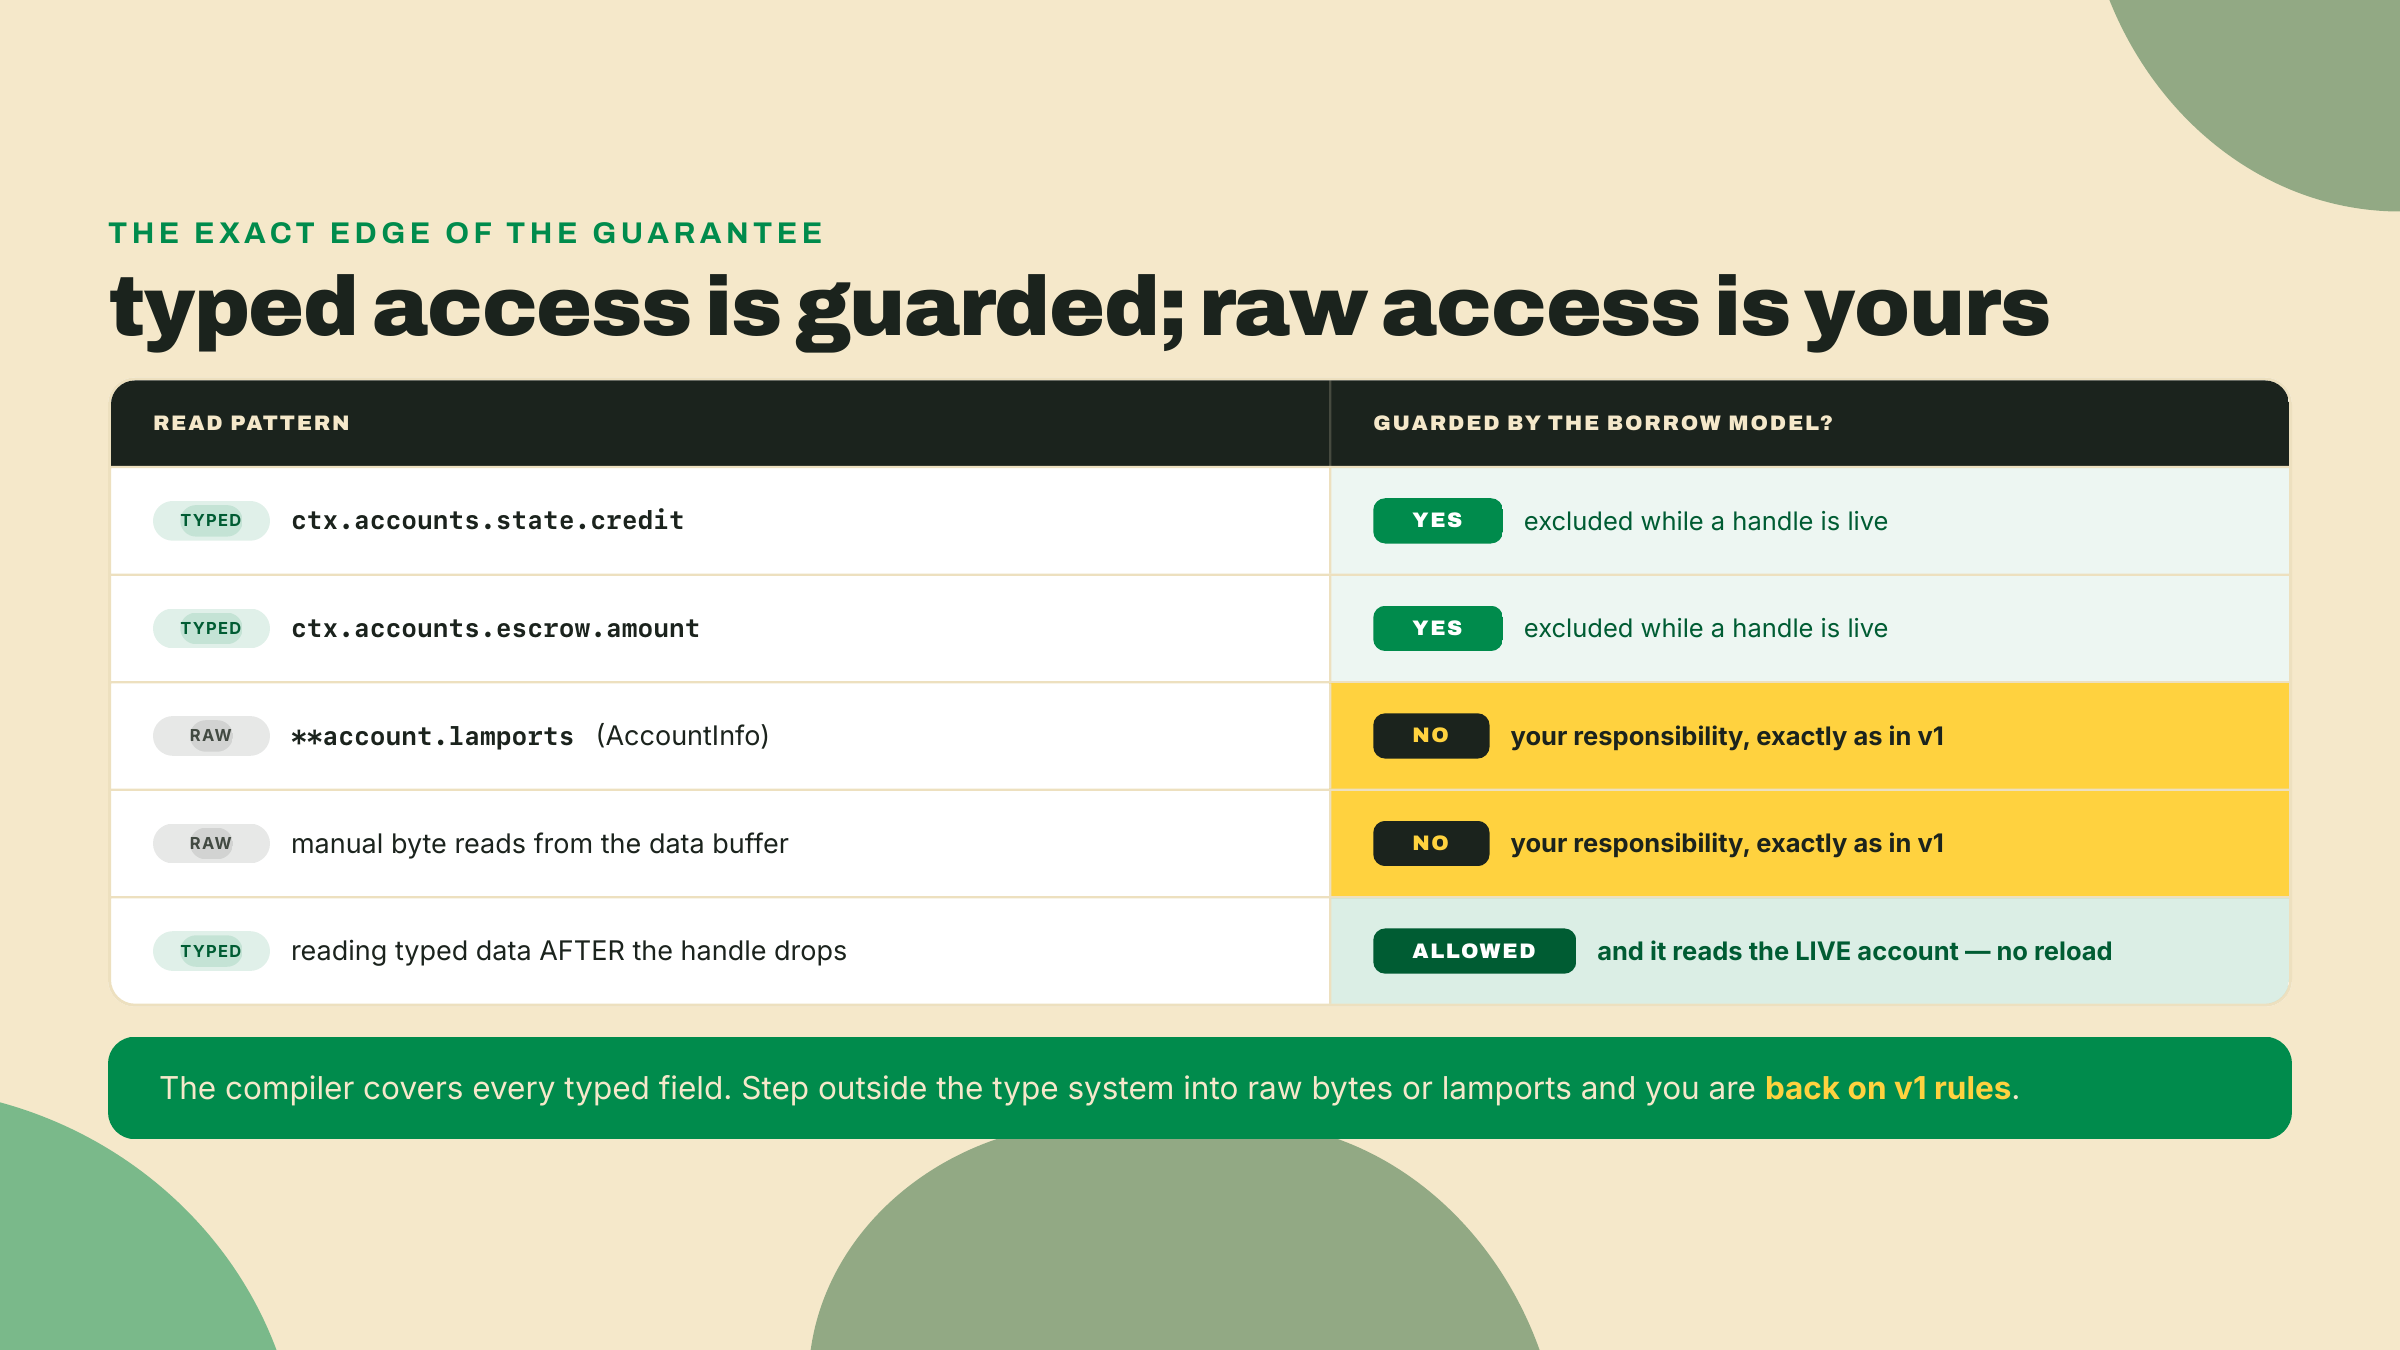
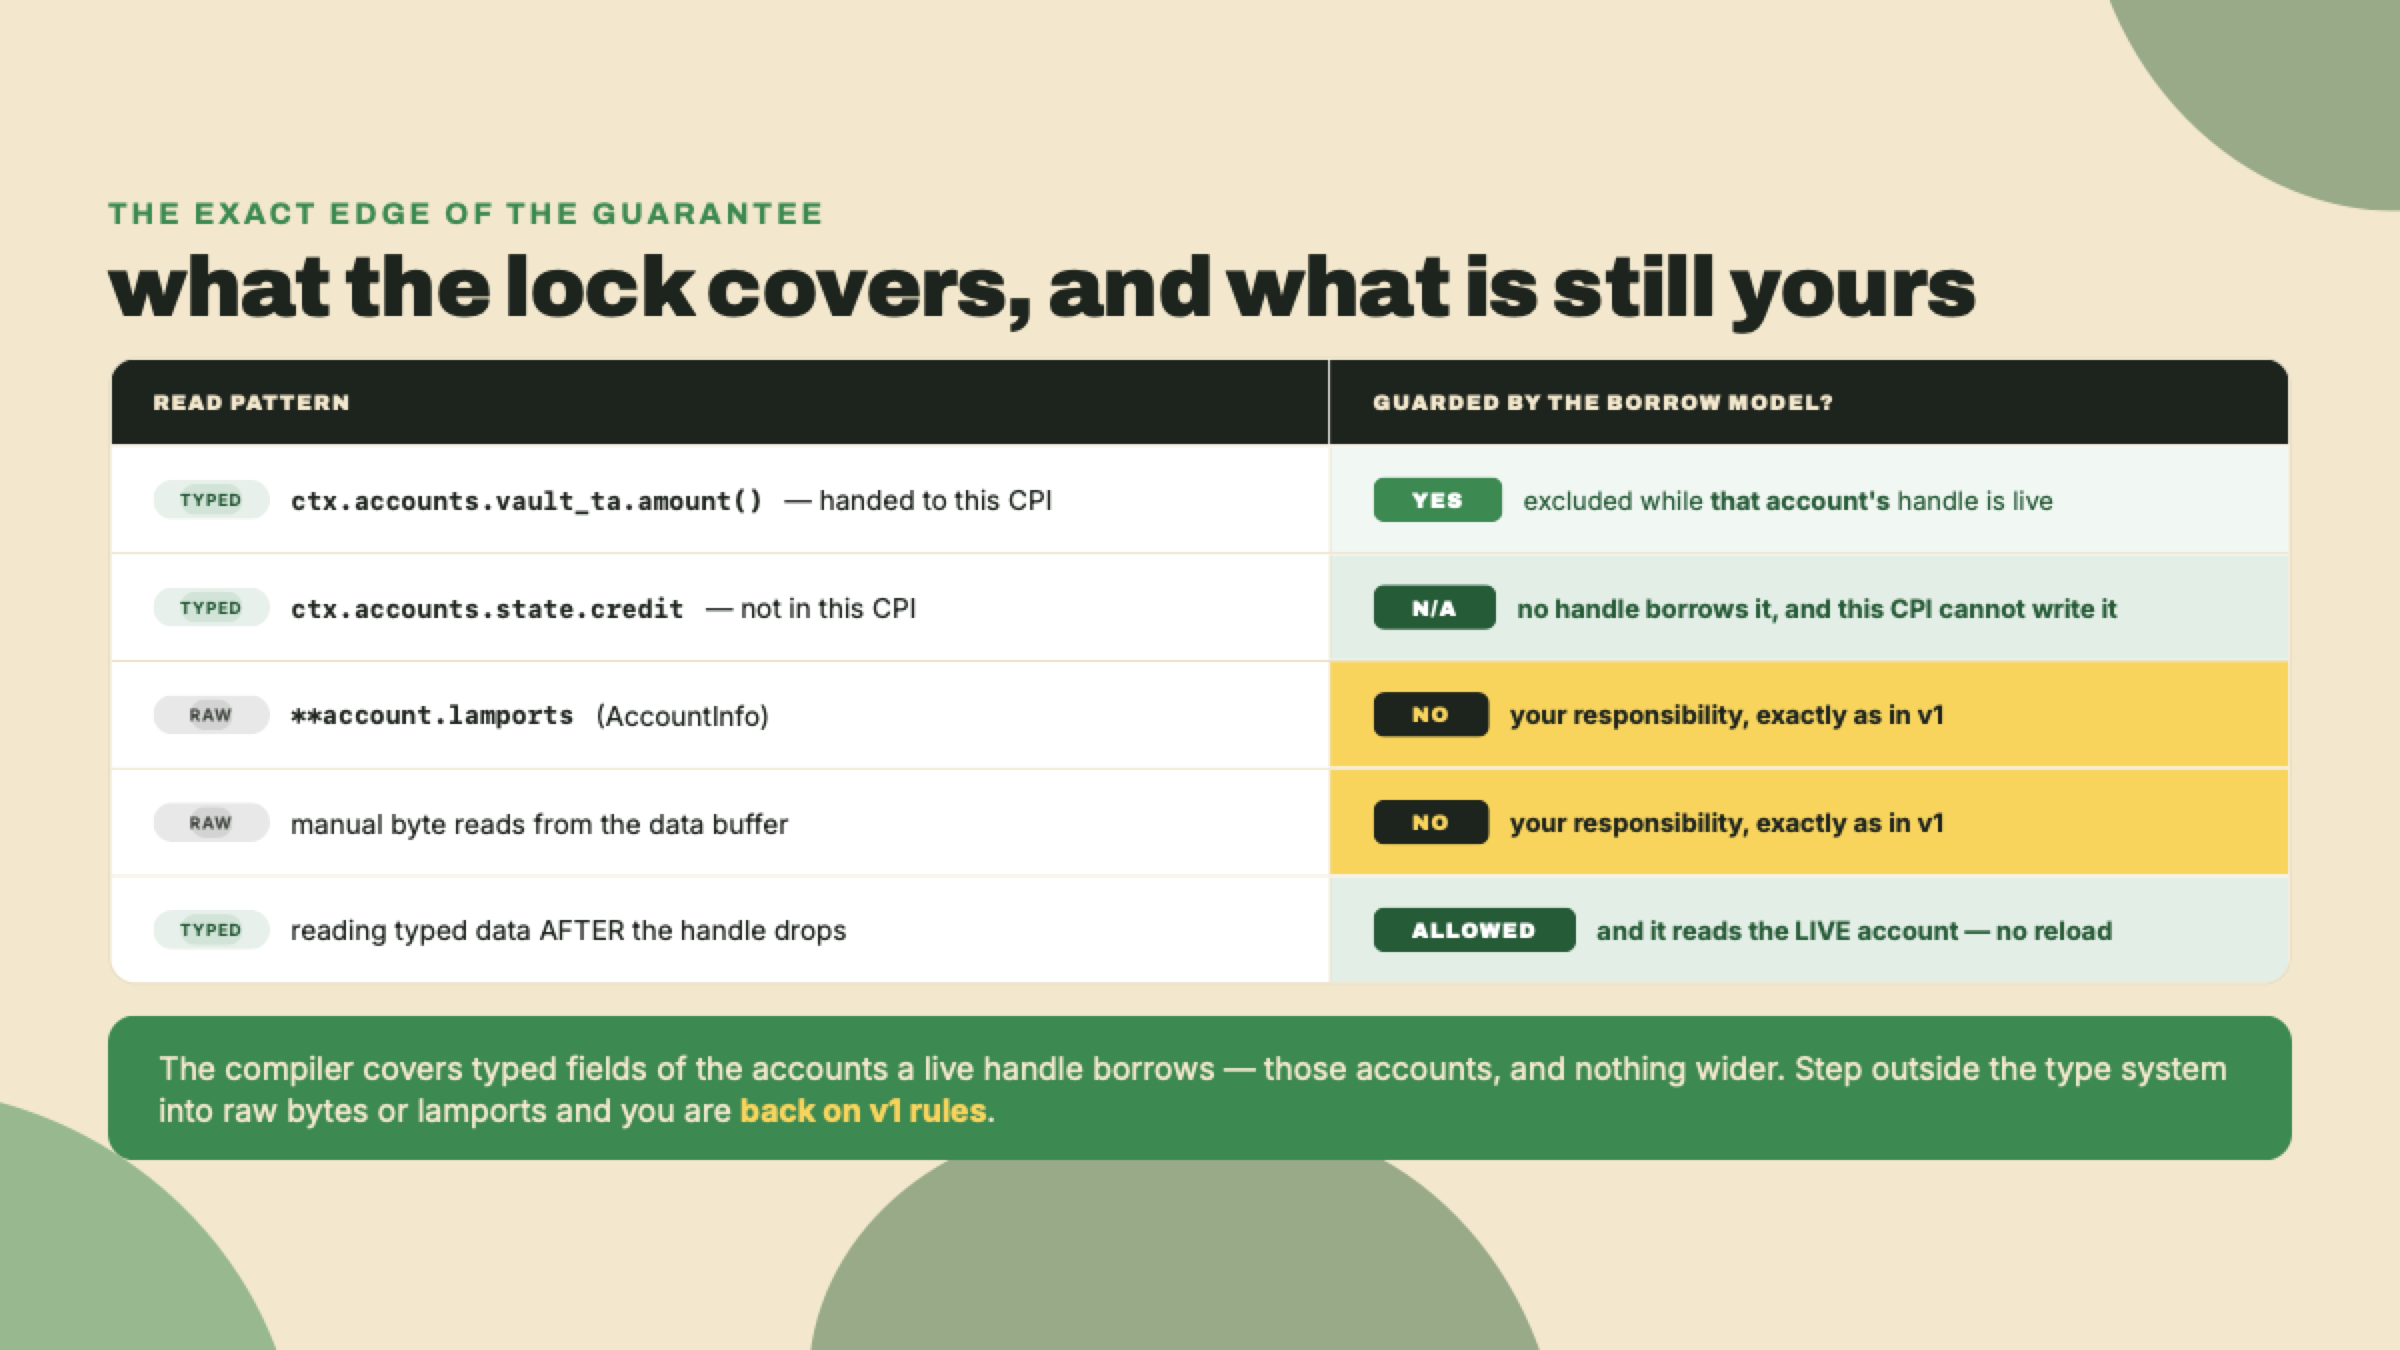
fix(anchor-v2): retarget m04-l2's v06 table and m10-l3's reload derivation
Two coherence defects left over from the borrow-model rewrite, both still
teaching the deleted aggregate-borrow thesis.

v06-comparison claimed a typed read of ctx.accounts.state.credit is
"excluded while a handle is live" and that "the compiler covers every typed
field" — refuted by this lesson's own green build for exactly that
expression, and printed inside the section that draws the guarantee's edge.
Row 1 now shows the CPI'd account (vault_ta.amount(), excluded while THAT
account's handle is live); row 2 keeps state.credit but as the
counterexample it actually is (not in the CPI, nothing to guard); the
footer scopes the guarantee to the accounts a live handle borrows. Alt text
and the introducing sentence follow. Re-rendered at 2400x1350; decor block
untouched and pixel-identical to a same-pipeline render of the old source.

m10-l3's reload derivation had a narrowed premise ("one per account handed
to the CPI, and nothing wider") wired to the old conclusion ("the exact
code that produced a stale read in v1 does not compile"). That vault's CPI
is vault -> authority while state is a disjoint BorshAccount, so the copied
v1 tail fails on .reload() alone. Conclusion rewritten to that fact, and
the structural-fix sentence retargeted from "the vault's typed data" to
typed data of an account the CPI takes.

diff --git a/courses/mastering-anchor-v2/visual-src/m04-l2/v06-comparison.html b/courses/mastering-anchor-v2/visual-src/m04-l2/v06-comparison.html
@@ -11,9 +11,9 @@
 </style></head>
 <body>
 <!-- comparison: What the borrow model guards, and what is still yours
-     purpose: fix the precise boundary of the compile-time guarantee so it is neither under nor over-trusted
-     data: Read pattern                                   | Guarded by the borrow model? ctx.accounts.state.credit (typed field)        | YES: excluded while a handle is live ctx.accounts.escrow.amount (typed field)       | YES: excluded while a handle is live raw AccountInfo lamports (**account.lamports)  | NO: your responsibility, as in v1 manual byte reads from the data buffer         | NO: your responsibility, as in v1 reading typed data AFTER the handle drops      | Allowed, and reads the LIVE account (no reload)
-     prompt: Two-column table. Left: read pattern. Right: guarded yes/no. Use green for the two typed YES rows and the final "allowed, live" row; use a caution color for the two raw NO rows. Header: "typed access is guarded; raw access is yours".
+     purpose: fix the precise boundary of the compile-time guarantee so it is neither under nor over-trusted — it covers typed reads of the accounts handed to the CPI, and nothing wider
+     data: Read pattern                                   | Guarded by the borrow model? ctx.accounts.vault_ta.amount() (typed, handed to this CPI) | YES: excluded while THAT account's handle is live ctx.accounts.state.credit (typed, not in this CPI)   | N/A: no handle borrows it, and this CPI cannot write it raw AccountInfo lamports (**account.lamports)  | NO: your responsibility, as in v1 manual byte reads from the data buffer         | NO: your responsibility, as in v1 reading typed data AFTER the handle drops      | Allowed, and reads the LIVE account (no reload)
+     prompt: Two-column table. Left: read pattern. Right: guarded yes/no. Use green for the typed YES row, the not-in-the-CPI row and the final "allowed, live" row; use a caution color for the two raw NO rows. Header: "what the lock covers, and what is still yours".
      BUILD .viz as on-brand HTML per skills/content-gen/references/visual-rendering.md.
      Header: <div class="stbr-eyebrow">..</div> + <h2 class="viz-title">..</h2>.
      Leave the .stbr-decor block untouched (per-asset brand decoration).
@@ -57,17 +57,17 @@
   .verdict b { color:var(--stbr-yellow); }
 </style>
   <div class="stbr-eyebrow">the exact edge of the guarantee</div>
-  <h2 class="viz-title">typed access is guarded; raw access is yours</h2>
+  <h2 class="viz-title">what the lock covers, and what is still yours</h2>
   <div class="tbl">
     <div class="r hd"><div>read pattern</div><div>guarded by the borrow model?</div></div>
     <div class="body">
       <div class="r">
-        <div class="pat"><span class="kind t">typed</span><code>ctx.accounts.state.credit</code></div>
-        <div class="ver yes"><span class="tag">YES</span>excluded while a handle is live</div>
+        <div class="pat"><span class="kind t">typed</span><code>ctx.accounts.vault_ta.amount()</code> — handed to this CPI</div>
+        <div class="ver yes"><span class="tag">YES</span><span>excluded while <b>that account's</b> handle is live</span></div>
       </div>
       <div class="r">
-        <div class="pat"><span class="kind t">typed</span><code>ctx.accounts.escrow.amount</code></div>
-        <div class="ver yes"><span class="tag">YES</span>excluded while a handle is live</div>
+        <div class="pat"><span class="kind t">typed</span><code>ctx.accounts.state.credit</code> — not in this CPI</div>
+        <div class="ver free"><span class="tag">N/A</span>no handle borrows it, and this CPI cannot write it</div>
       </div>
       <div class="r">
         <div class="pat"><span class="kind raw">raw</span><code>**account.lamports</code> (AccountInfo)</div>
@@ -83,7 +83,8 @@
       </div>
     </div>
   </div>
-  <div class="verdict">The compiler covers every typed field. Step outside the type system into
-    raw bytes or lamports and you are <b>back on v1 rules</b>.</div>
+  <div class="verdict">The compiler covers typed fields of the accounts a live handle borrows —
+    those accounts, and nothing wider. Step outside the type system into raw bytes or lamports
+    and you are <b>back on v1 rules</b>.</div>
 </div>
 </body></html>

diff --git a/courses/mastering-anchor-v2/lessons/m10-l3/intro.md b/courses/mastering-anchor-v2/lessons/m10-l3/intro.md
@@ -112,13 +112,13 @@ let bal = ctx.accounts.state.total_deposited;    // read the "fresh" value
 
 Why did `.reload()` exist at all? Because a CPI can mutate an account's on-chain data out from under your deserialized copy, and Anchor never automatically refreshed that copy. So if you read a typed field after a CPI without reloading, you could be reading stale bytes. `.reload()` re-read the account from its underlying `AccountInfo`. It was a patch for a specific, real bug: stale typed reads across a CPI boundary.
 
-Now the derivation, because this is the part that makes V2 click. Ask the question the framework designers asked: *what if that bug were not something you patch, but something you cannot express in the first place?* That is the move. V2 replaces `.reload()` with a borrow-tracked model, the CpiHandle. The handles go into a `CpiContext`, and from the moment that value exists until the call consumes it, the compiler holds those borrows — one per account handed to the CPI, and nothing wider — exactly as m04-l2 walked it. Typed access to an account whose handle is live in that span is a compile error. The exact code that produced a stale read in v1 does not compile in V2.
+Now the derivation, because this is the part that makes V2 click. Ask the question the framework designers asked: *what if that bug were not something you patch, but something you cannot express in the first place?* That is the move. V2 replaces `.reload()` with a borrow-tracked model, the CpiHandle. The handles go into a `CpiContext`, and from the moment that value exists until the call consumes it, the compiler holds those borrows — one per account handed to the CPI, and nothing wider — exactly as m04-l2 walked it. Typed access to an account whose handle is live in that span is a compile error. Now hold the snippet above against that rule, because the rule is narrower than it first sounds and this vault sits right on its edge. Port that tail line for line and exactly one line stops the build: `.reload()`, which no longer exists as a method to call. The `total_withdrawn` read a line above it survives, because this transfer's handles are on `vault` and `authority` while `state` is a disjoint account the callee could never have written — nothing to exclude there, and nothing that could have gone stale. That is the model doing its job, not failing to: the exclusion lands on the accounts the CPI can actually change. Hand a CPI a typed account, the way m04-l2's token probe did, and a mid-CPI read of *that* account is the compile error.
 
 Sit with that for a second, because it is a genuinely different philosophy. v1 gave you a tool to avoid a footgun. V2 removed the footgun. There is no `.reload()` to call because there is no stale read to fix, because the borrow checker made the stale read unrepresentable. The bug class is gone, not guarded.
 
 ![In v1 a typed borrow held across a CPI goes stale and .reload() patches it; in V2 the CpiHandle holds that borrow, so the same code cannot compile.](assets/v03-diagram.png)
 
-So the fix is not "find the V2 name for reload." There is none. The fix is structural: do not hold the vault's typed data across the CPI. Read the scalars you need (the bump, the state key) into locals before the transfer, run the transfer, then take a fresh typed borrow after it completes to update your counters. The borrow error is not an obstacle. It is the instruction. That is letting the compiler drive.
+So the fix is not "find the V2 name for reload." There is none. The fix is structural: do not hold typed data of an account this CPI takes across the CPI. Read the scalars you need (the bump, the state key) into locals before the transfer, run the transfer, then take a fresh typed borrow after it completes to update your counters — and that post-CPI read is already live, which is why there is nothing left for a `.reload()` to do. The error is not an obstacle. It is the instruction. That is letting the compiler drive.
 
 ![The V2 build throws two errors on the copied v1 withdraw, a missing reload method and a typed read taken while the CpiContext holds its borrow, and each maps to exactly one edit.](assets/v04-annotated-code.png)
 

diff --git a/courses/mastering-anchor-v2/lessons/m04-l2/intro.md b/courses/mastering-anchor-v2/lessons/m04-l2/intro.md
@@ -116,9 +116,9 @@ This is a recurring V2 instinct, so it is worth naming as a rule you can carry: 
 
 This is where a lazy explanation would tell you the compiler now handles account freshness and send you on your way. Do not believe that, because it is false in a way that will bite you. Knowing the precise edge of a safety guarantee is part of using it well, so let us draw the line exactly.
 
-The compiler guards *typed account access*. That is it. If you go around the typed layer and read raw `AccountInfo` lamports directly, or pull bytes out of an account's data buffer by hand, the borrow model does not protect you. Those reads are yours to reason about, exactly as they were in v1. A teammate who tells you the borrow checker means you never think about freshness again is wrong on both counts: it does not refresh anything, and it does not cover raw reads.
+The compiler guards *typed account access*, on the accounts a live handle borrows. That is it. If you go around the typed layer and read raw `AccountInfo` lamports directly, or pull bytes out of an account's data buffer by hand, the borrow model does not protect you. Those reads are yours to reason about, exactly as they were in v1. A teammate who tells you the borrow checker means you never think about freshness again is wrong on both counts: it does not refresh anything, and it does not cover raw reads.
 
-![Typed field reads are excluded while a handle is live, but raw AccountInfo lamports and manual byte reads stay the programmer's responsibility exactly as in v1.](assets/v06-comparison.png)
+![A typed read of an account handed to the CPI is excluded while that account's handle is live, a typed read of an account outside the CPI has nothing to guard against, and raw AccountInfo lamports or manual byte reads stay the programmer's responsibility exactly as in v1.](assets/v06-comparison.png)
 
 And name the trade-off honestly, because there is one. The borrow model buys compile-time safety with a little flexibility. A handful of ergonomic v1 patterns — the ones that read an account partway through setting up the very CPI that takes it — now need restructuring: you drop the handle, then you read. The cost is a mechanical refactor, usually moving one line down a few lines. That is the whole bill. You trade "I can write the code in any order" for "the order I am allowed to write cannot be the wrong one." On a path that moves other people's money, that is a trade I take every single time. Cheap insurance against a silent bug is the best kind.
 
